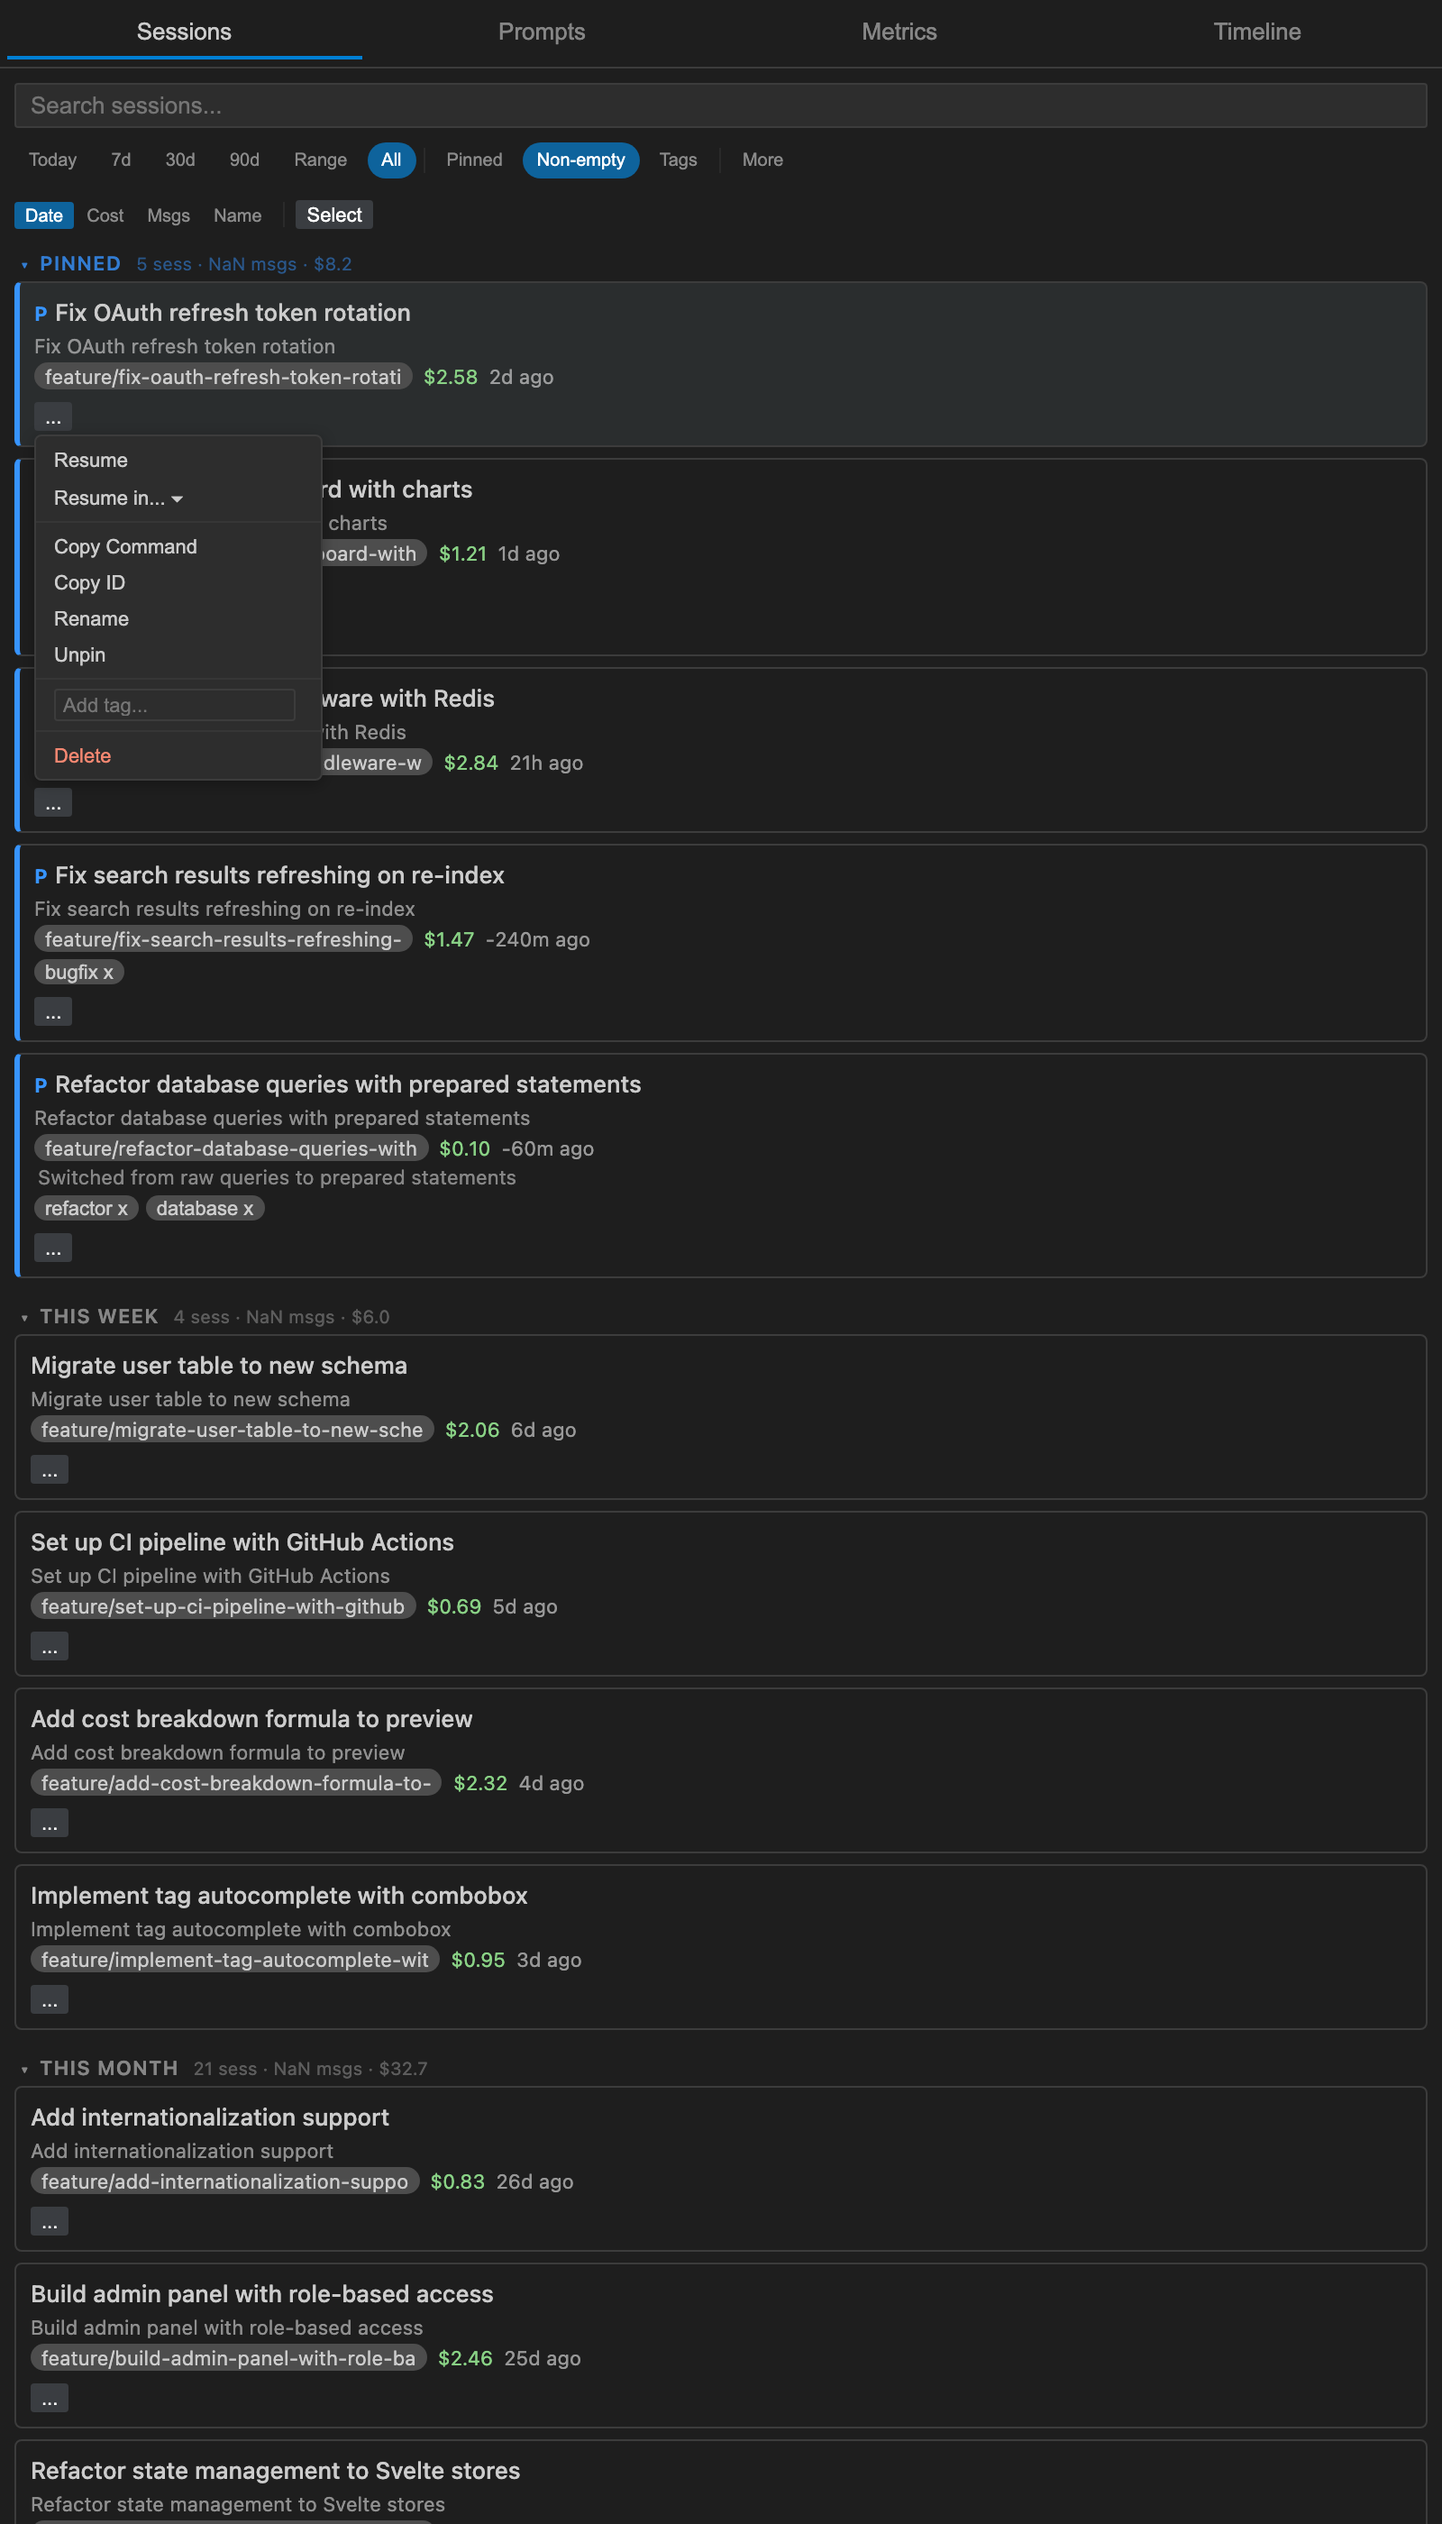
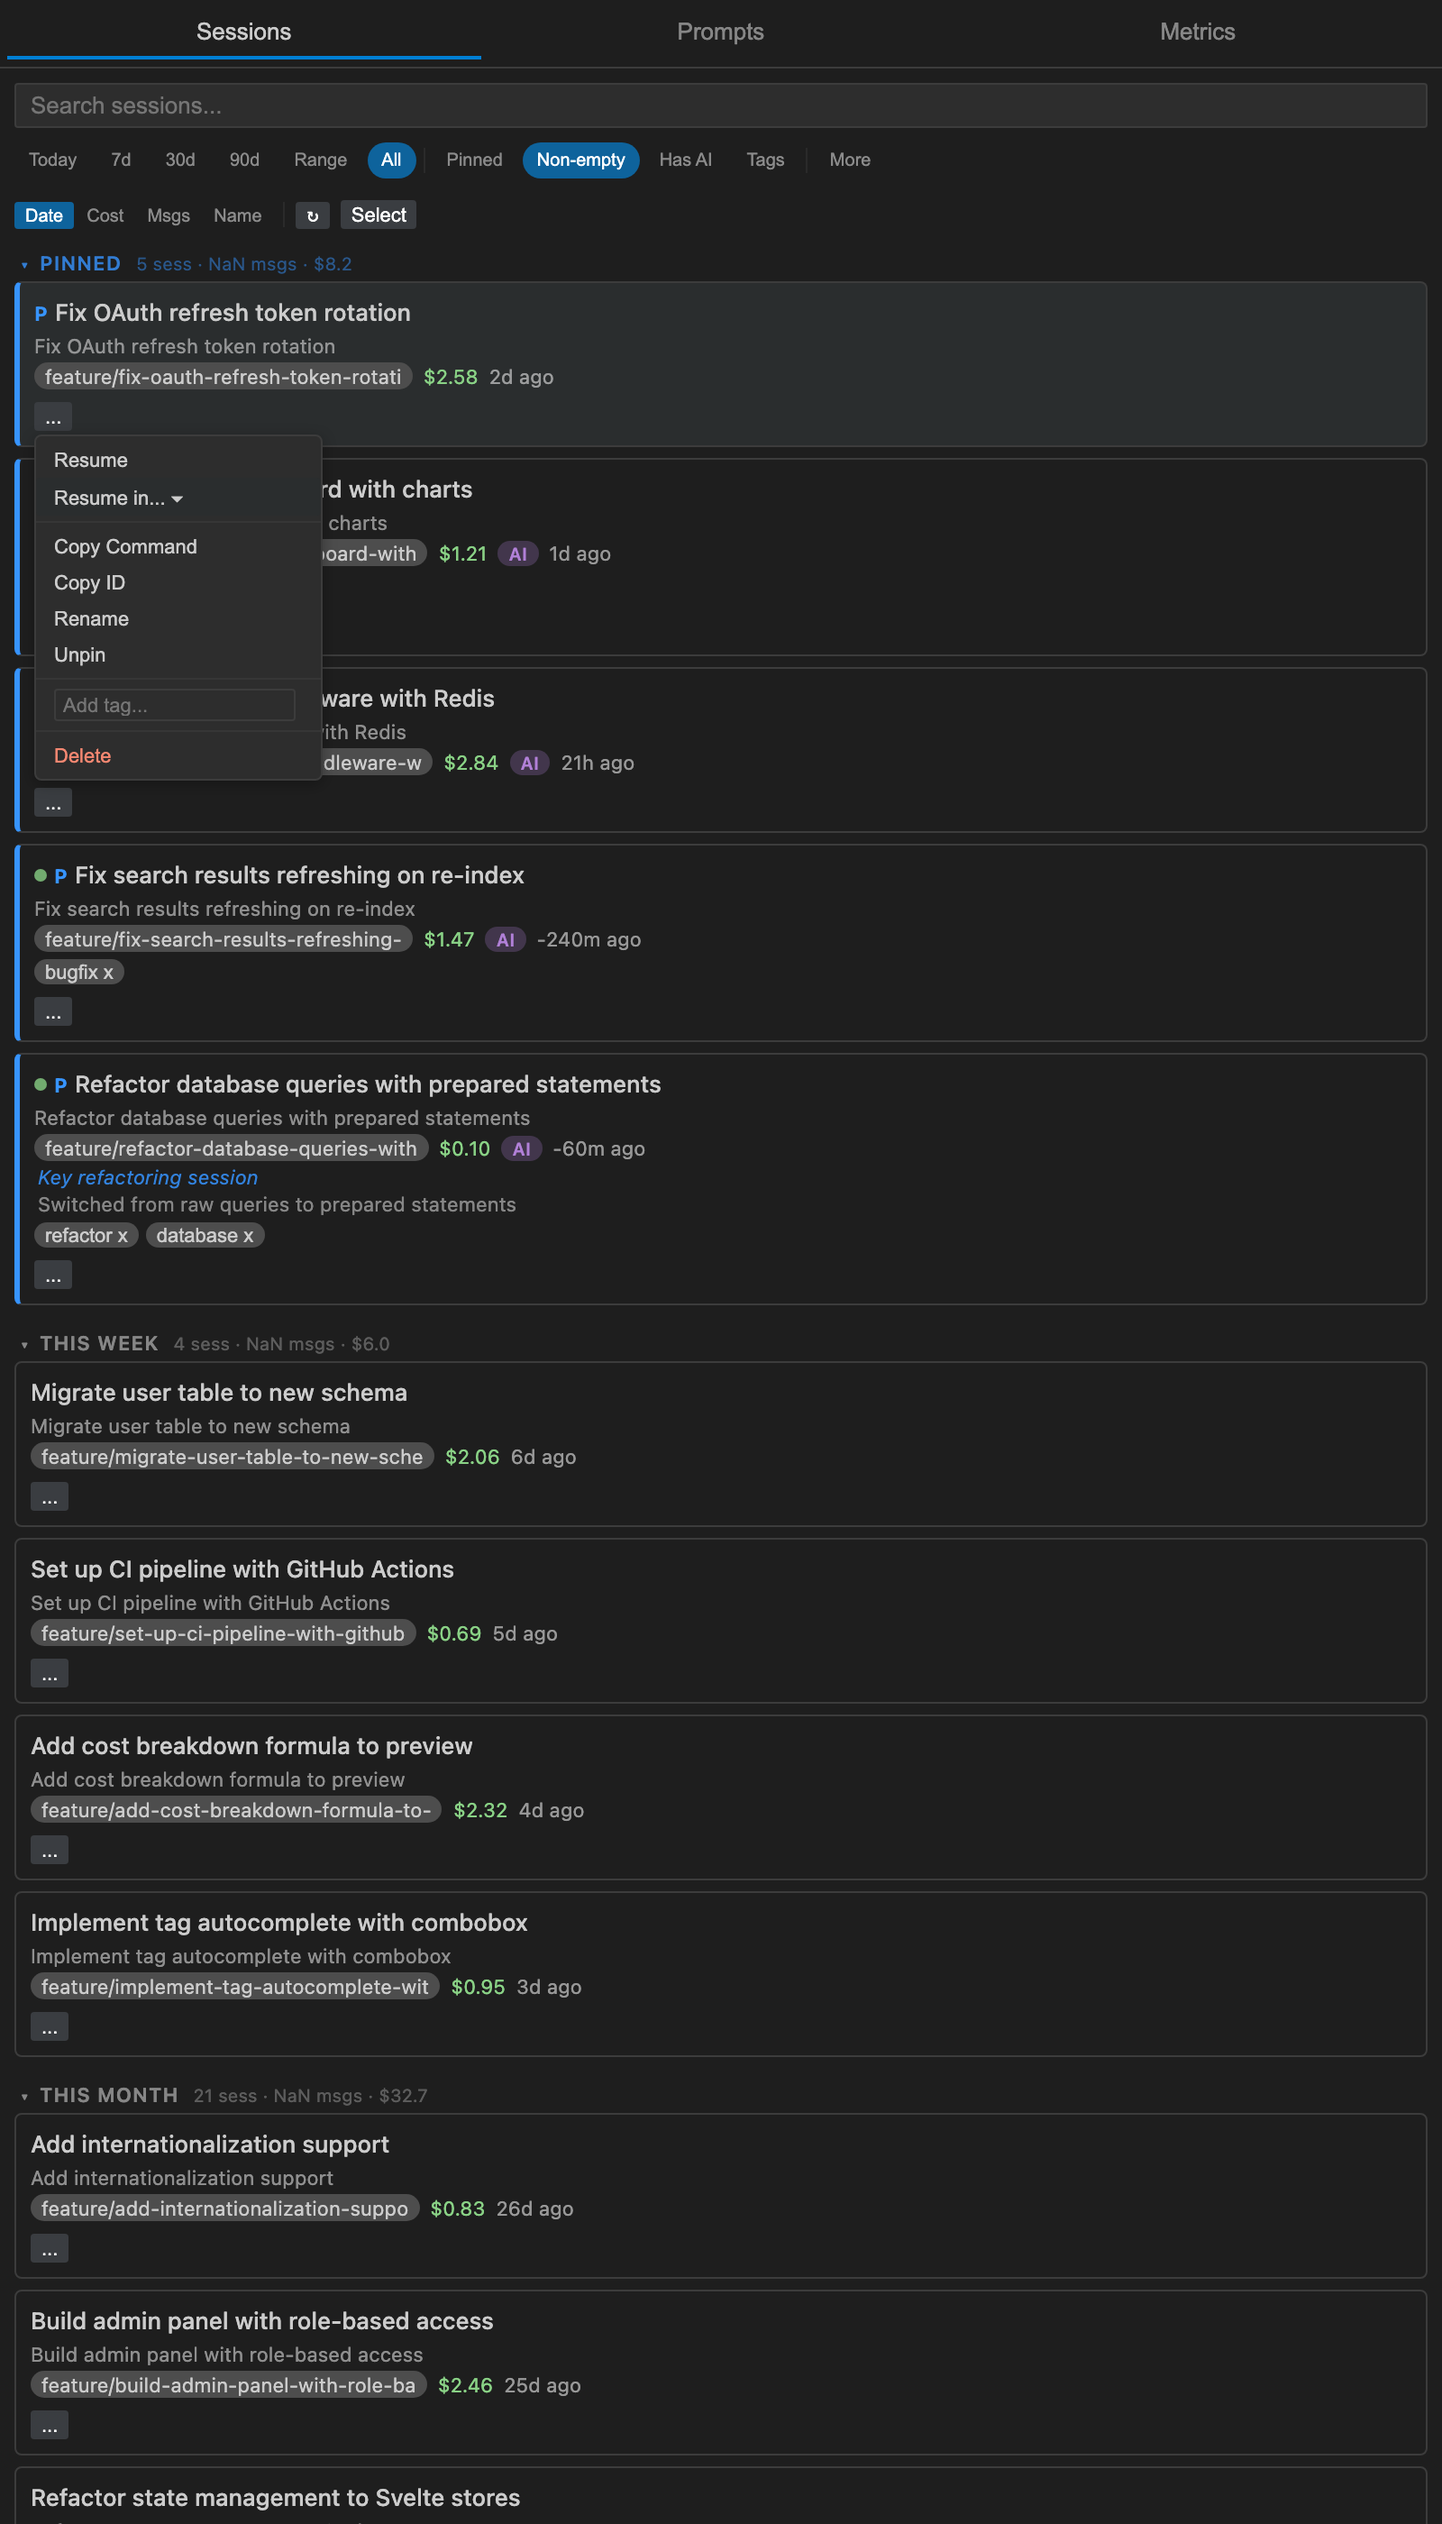
release: v0.5.0 — update README, screenshots, changelog

diff --git a/CHANGELOG.md b/CHANGELOG.md
@@ -4,26 +4,17 @@ All notable changes to Claude Cockpit will be documented in this file.
 
 The format is based on [Keep a Changelog](https://keepachangelog.com/).
 
-## [0.4.8] - 2026-03-02
-
-### Improved
-
-- **Full feature showcase** — README and Marketplace listing now highlight every major capability: AI Insights, Prompt Refinement, 8-terminal support, cost tracking, and more
-- **Sharper hero GIF** — Smoother animations with better color reproduction
-
-## [0.4.7] - 2026-03-02
-
-### Improved
-
-- **New screenshots** — All screenshots refreshed to show AI badges on session cards, the insight panel with generated summaries, prompt refinement with flavor selection, and the expanded 7+ terminal resume menu
-- **8 supported terminals** — Terminal table now shows tab support for iTerm2, WezTerm, and Kitty
-
-## [0.4.5] - 2026-03-02
+## [0.5.0] - 2026-03-02
 
 ### Added
 
-- **Refresh button** — Manual full re-index button in the toolbar with spinning animation
-- **Periodic reindex** — Full re-index every 30 seconds while the window is focused, keeping metrics and costs fresh without constant file watching
+- **Refresh button** — One-click re-index from the toolbar, plus automatic background refresh every 30 seconds
+- **8 supported terminals** — Resume sessions in VS Code, iTerm2, WezTerm, Kitty, Ghostty, Terminal.app, Alacritty, or Warp
+
+### Improved
+
+- **Fresh Marketplace listing** — All-new screenshots showcasing AI Insights, Prompt Refinement, the full terminal menu, and cost tracking
+- **Smoother hero GIF** — High-quality animation with better color reproduction
 
 ## [0.4.4] - 2026-03-02
 

diff --git a/README.md b/README.md
@@ -38,20 +38,19 @@ Sessions with generated insights show an **AI** badge on their card for quick id
 
 Spotted the session you need? Resume it without leaving VS Code, or launch it directly in your preferred terminal.
 Claude Cockpit supports eight terminals out of the box, each with both standard resume and auto-approve modes.
-iTerm2, WezTerm, and Kitty support tab-based resume for a clean workflow.
 
 <img src="media/screenshots/02-resume-terminals.png" width="800" alt="Context menu showing resume options across 7+ terminals">
 
-| Terminal         | Resume | Auto-approve | Tabs |
-|------------------|:------:|:------------:|:----:|
-| VS Code terminal | ✓      | ✓            |      |
-| iTerm2           | ✓      | ✓            | ✓    |
-| WezTerm          | ✓      | ✓            | ✓    |
-| Kitty            | ✓      | ✓            | ✓    |
-| Ghostty          | ✓      | ✓            |      |
-| Terminal.app     | ✓      | ✓            |      |
-| Alacritty        | ✓      | ✓            |      |
-| Warp             | ✓      | ✓            |      |
+| Terminal         | Resume | Auto-approve |
+|------------------|:------:|:------------:|
+| VS Code terminal | ✓      | ✓            |
+| iTerm2           | ✓      | ✓            |
+| WezTerm          | ✓      | ✓            |
+| Kitty            | ✓      | ✓            |
+| Ghostty          | ✓      | ✓            |
+| Terminal.app     | ✓      | ✓            |
+| Alacritty        | ✓      | ✓            |
+| Warp             | ✓      | ✓            |
 
 ### Prompt Library & AI Refinement
 
